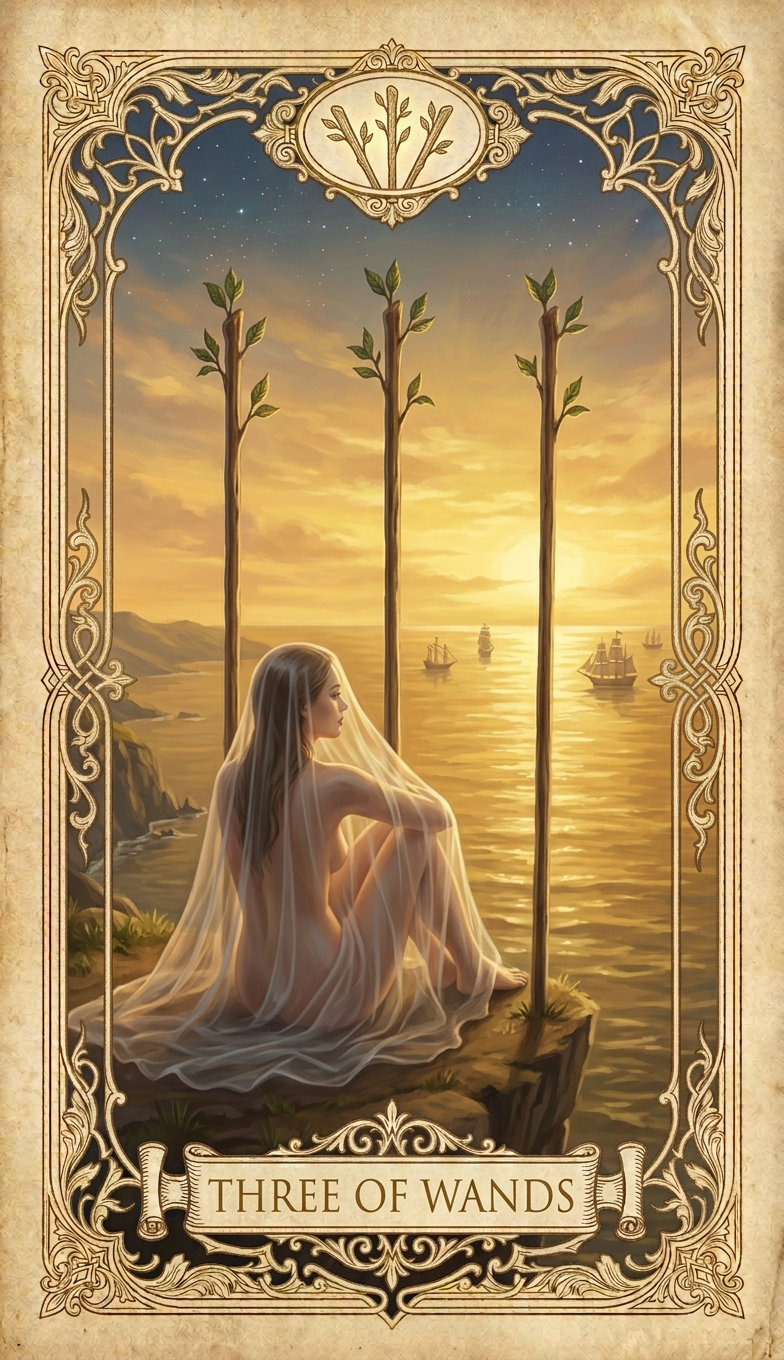
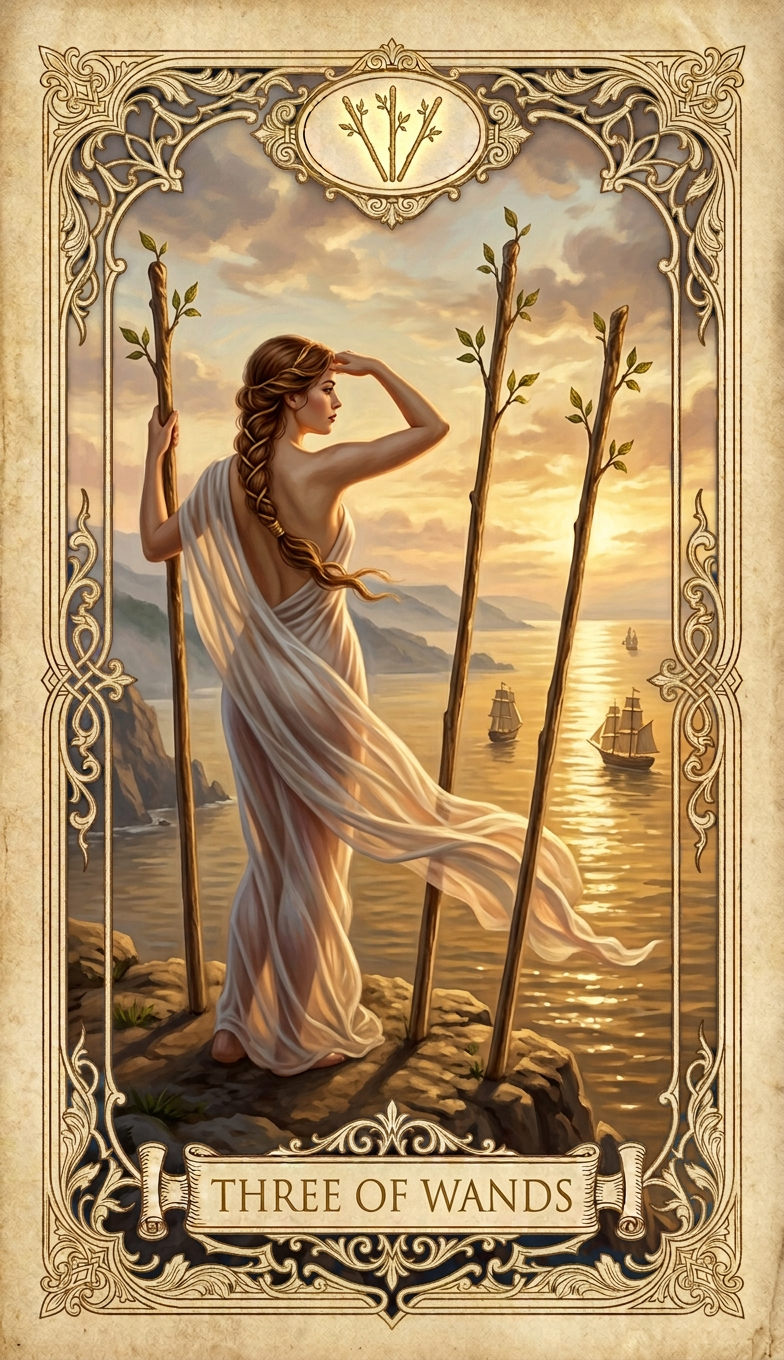
Redraw Three of Wands from 'tarot prompt' data: standing statuesque merchant, caramel braid, exactly 3 wands; frame re-anchored to The Star

diff --git a/cards/index.html b/cards/index.html
@@ -598,7 +598,7 @@
             <div class="card-details">
                 <div class="card-title">THREE OF WANDS</div>
                 <div class="card-meta"><strong>Độ tuổi:</strong> 23 years old &bull; <strong>Huy hiệu:</strong> three leafy wands in a fan</div>
-                <div class="card-scene">a serene woman merchant seen from behind on a cliff, draped only in a diaphanous transparent silk veil that clings and reveals her soft curves, her face turned gently to look far out to sea, three staves planted upright in a row beside her, sailing ships on a golden sea</div>
+                <div class="card-scene">a serene woman merchant seen from behind on a high rocky headland, standing tall with her long back line turned to us, draped only in a diaphanous transparent silk veil that clings and reveals her soft curves and streams in the sea wind, one hand resting high on the staff beside her and the other raised to shade her eyes as she gazes far out to sea, three staves planted upright in a row around her, sailing ships on a golden sea</div>
             </div>
         </div>
         <div class="card-item">
